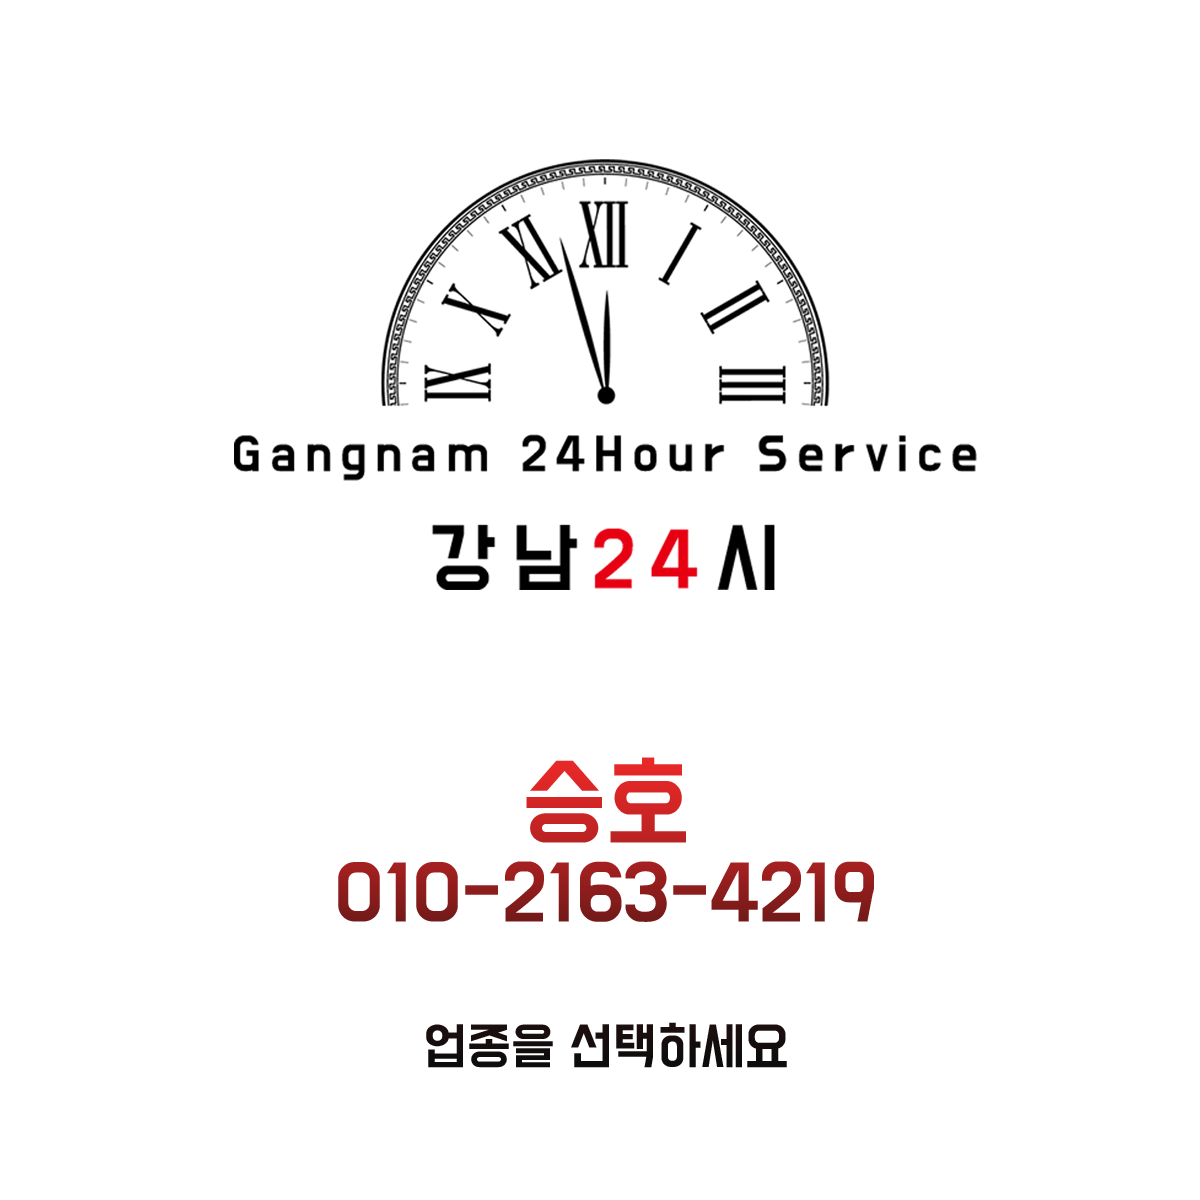
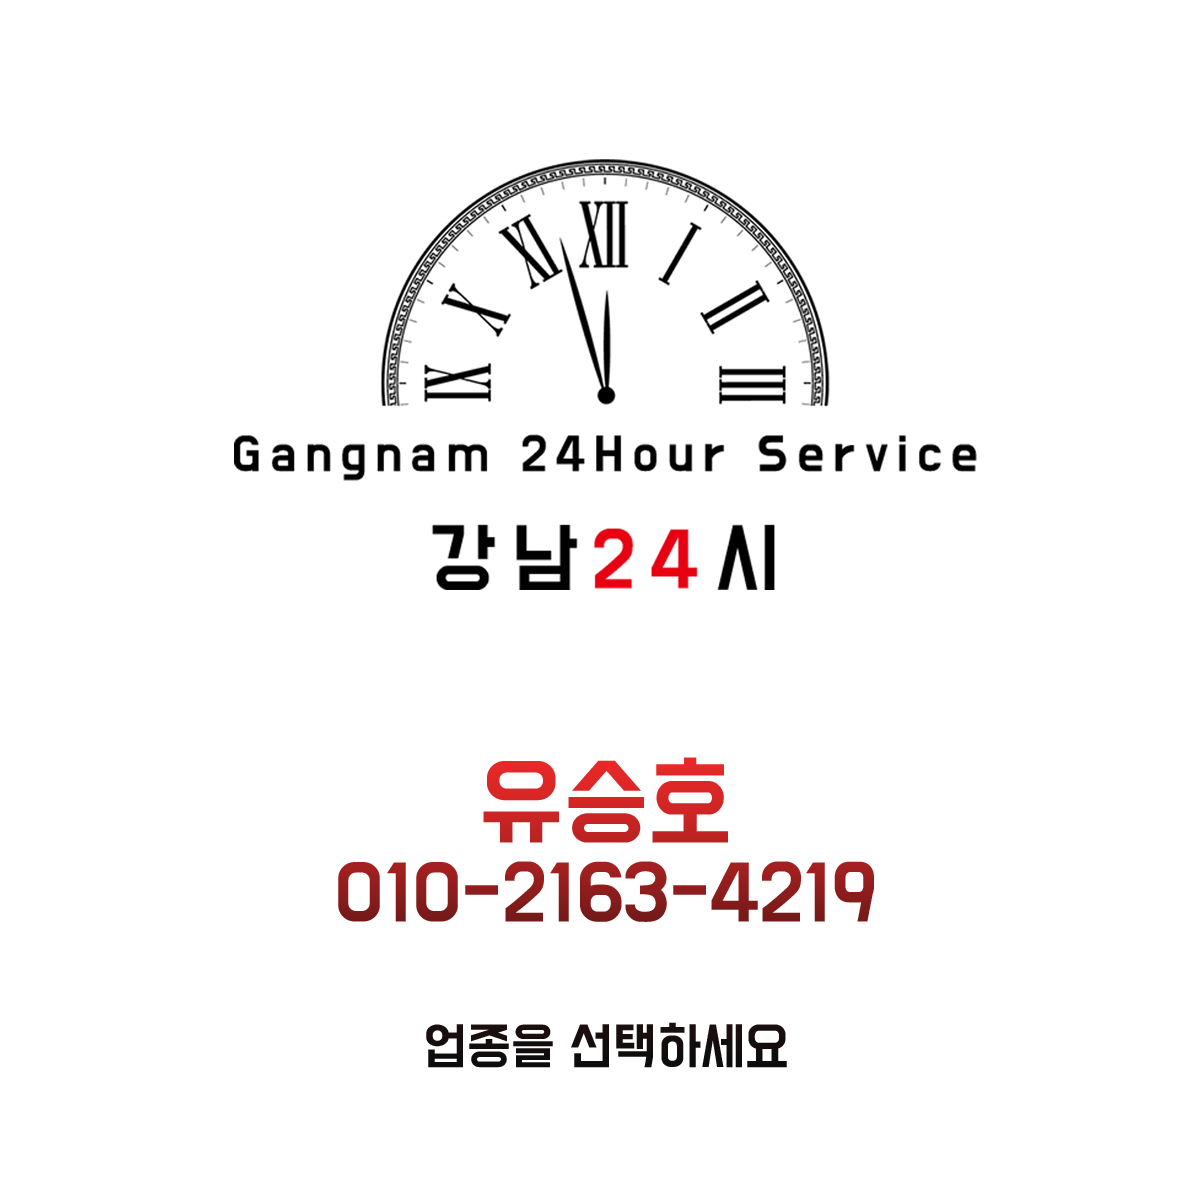
Add files via upload

Changed region(s): [[0.4008, 0.6167, 0.6167, 0.7092]]

diff --git a/pages/shirt.html b/pages/shirt.html
@@ -3,7 +3,7 @@
   <head>
     <meta charset="utf-8">
     <meta name="viewport" content="width=device-width, initial-scale=1.0">
-    <title>강남 승호 : 셔츠룸</title>
+    <title>강남 유승호 : 셔츠룸</title>
     <link rel="stylesheet" href="../css/pages.css">
     <link rel="stylesheet" href="../css/mediaQuery.css">
     <link href="https://fonts.googleapis.com/css?family=Nanum+Gothic:400,700,800&display=swap" rel="stylesheet">
@@ -16,21 +16,21 @@
       <div class="videoContainer">
         <video src="https://darkadimg.cafe24.com/kangstar/movie1.mp4" autoplay controls></video>
         <div class="videoLabel">
-          승호 셔츠룸 실제 인사시스템
+          유승호 셔츠룸 실제 인사시스템
         </div>
       </div>
 
       <div class="videoContainer">
         <video src="https://darkadimg.cafe24.com/kangstar/movie2.mp4" autoplay controls></video>
         <div class="videoLabel">
-          승호 셔츠룸 실제 인사시스템
+          유승호 셔츠룸 실제 인사시스템
         </div>
       </div>
 
       <div class="videoContainer">
         <video src="https://darkadimg.cafe24.com/kangstar/movie3.mp4" autoplay controls></video>
         <div class="videoLabel">
-          승호 셔츠룸 실제 인사시스템
+          유승호 셔츠룸 실제 인사시스템
         </div>
       </div>
 

diff --git a/index.html b/index.html
@@ -3,7 +3,7 @@
   <head>
     <meta charset="utf-8">
     <meta name="viewport" content="width=device-width, initial-scale=1.0">
-    <title>강남 승호</title>
+    <title>강남 유승호</title>
     <link rel="stylesheet" href="css/master.css">
     <link rel="stylesheet" href="css/mediaQuery.css">
     <link href="https://fonts.googleapis.com/css?family=Nanum+Gothic:400,700,800&display=swap" rel="stylesheet">

diff --git a/pages/leggings.html b/pages/leggings.html
@@ -3,7 +3,7 @@
   <head>
     <meta charset="utf-8">
     <meta name="viewport" content="width=device-width, initial-scale=1.0">
-    <title>강남 승호 : 레깅스룸</title>
+    <title>강남 유승호 : 레깅스룸</title>
     <link rel="stylesheet" href="../css/pages.css">
     <link rel="stylesheet" href="../css/pngEffect/leggingsEffect.css">
     <link rel="stylesheet" href="../css/mediaQuery.css">
